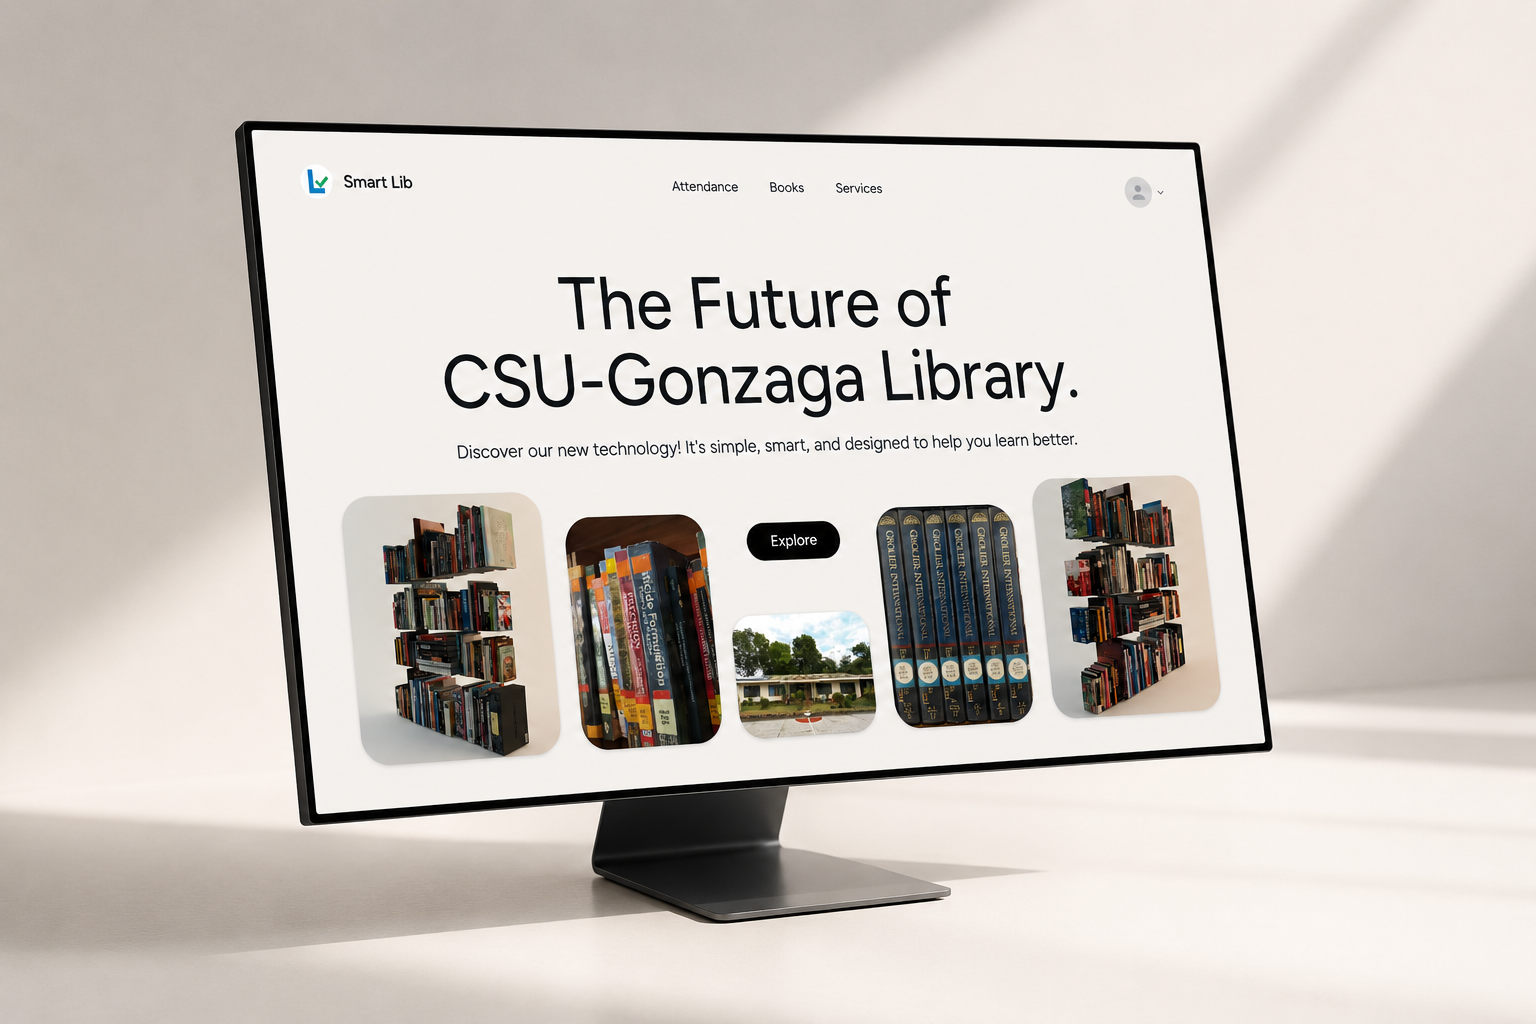
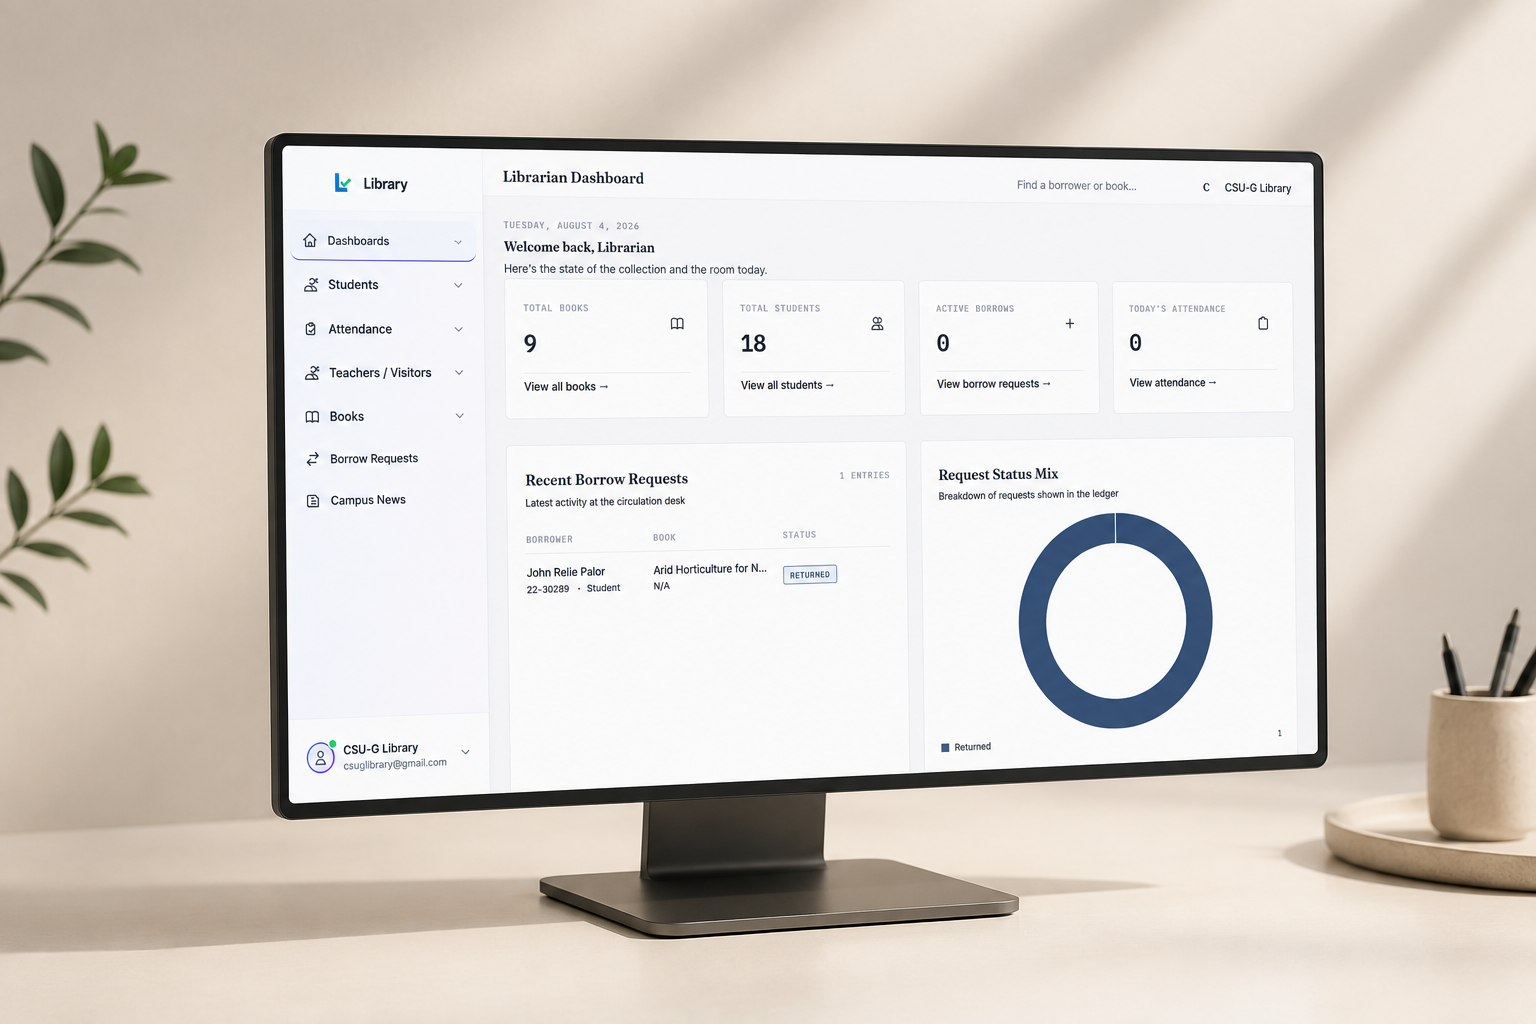
Added projects

diff --git a/config/projects.ts b/config/projects.ts
@@ -52,7 +52,7 @@ export function getProjectPreviews(project: ProjectInterface): ProjectPreviewSet
       descriptionDetails: project.descriptionDetails,
       pagesInfoArr: project.pagesInfoArr,
     },
-    admin: project.adminPreview,
+    ...(project.adminPreview ? { admin: project.adminPreview } : {}),
   };
 }
 
@@ -78,8 +78,8 @@ export const Projects: ProjectInterface[] = [
     shortDescription:
       "An AI-powered quiz platform that generates personalized quizzes on any topic in real time, using the Groq API for fast inference with OpenRouter as a fallback provider. Built with a TypeScript/Angular frontend and an Express.js backend handling AI-driven question generation, scoring, and adaptive feedback.",
     websiteLink: "https://jaya-ai.vercel.app/",
-    githubLink: undefined,
-    liveDemoNote: "Jaya AI generates custom quizzes on any topic using Groq (with OpenRouter as fallback) and turns learning into an interactive game.",    techStack: ["Typescript", "Angular", "express.js", "AI"],
+    liveDemoNote: "Jaya AI generates custom quizzes on any topic using Groq (with OpenRouter as fallback) and turns learning into an interactive game.",
+    techStack: ["Typescript", "Angular", "express.js", "AI"],
     startDate: "2023-03-01", // adjust
     endDate: "2023-06-01",
     companyLogoImg: ["/projects/jaya/jaya3.png", "/projects/jaya/jaya2.png"],
@@ -211,7 +211,6 @@ export const Projects: ProjectInterface[] = [
     category: ["Web Dev", "Full Stack", "UI/UX"],
     shortDescription:
       "A Laravel-based library system with QR-based book borrowing/returning, real-time book availability, and study space tracking.",
-    websiteLink: undefined,
     githubLink: "https://github.com/reliepalor/library.git",
     liveDemoNote: "Live demo is not available yet.",
     techStack: ["Laravel", "PHP", "Firebase", "MySQL", "Tailwind CSS"],
@@ -249,53 +248,108 @@ export const Projects: ProjectInterface[] = [
     },
   },
 
-  //Pet Ecommerce
+  // //Pet Ecommerce
+  // {
+  //   id: "paw-haven",
+  //   companyName: "Paw Haven | Pet Ecommerce",
+  //   type: "Academics",
+  //   category: ["Web Dev", "Full Stack", "UI/UX"],
+  //   shortDescription:
+  //     "A Laravel and Tailwind-based pet eCommerce platform where users can browse and order pets, accessories, and food, complete with email order confirmations.",
+  //   githubLink: "https://github.com/reliepalor/pets.git",
+  //   liveDemoNote: "Live demo is not available yet.",
+  //   techStack: ["Laravel", "PHP", "Firebase", "MySQL", "Tailwind CSS"],
+  //   startDate: "2023-01-01", 
+  //   endDate: "2023-03-01",
+  //   companyLogoImg: "/projects/paw-haven/vuew.png",
+  //   pagesInfoArr: [
+  //     {
+  //       title: "Landing Page",
+  //       description: "A clean landing page showcasing featured pets, products, and offers.",
+  //       imgArr: ["/projects/paw-haven/vuew.png"],
+  //     },
+  //     {
+  //       title: "Product Browsing",
+  //       description: "Browse pets, accessories, and food with category filters.",
+  //       imgArr: ["/projects/paw-haven/vuew.png"],
+  //     },
+  //     {
+  //       title: "Order System",
+  //       description: "Integrated checkout with order confirmation via email.",
+  //       imgArr: ["/projects/paw-haven/vuew.png"],
+  //     },
+  //   ],
+  //   descriptionDetails: {
+  //     paragraphs: [
+  //       "Paw Haven is a full-featured eCommerce web application tailored for pet lovers. Users can easily explore and purchase pets, accessories, and food items, all within a single platform.",
+  //       "The system leverages Laravel and MySQL on the backend, with Tailwind CSS providing a responsive and modern design. Firebase is integrated for authentication and real-time functionality.",
+  //       "A key highlight is the email notification system that confirms orders, ensuring users receive instant updates on their purchases.",
+  //     ],
+  //     bullets: [
+  //       "Built a complete eCommerce platform using Laravel and Tailwind CSS.",
+  //       "Implemented product browsing for pets, accessories, and food.",
+  //       "Integrated Firebase for authentication and notifications.",
+  //       "Added order confirmation system with automated email alerts.",
+  //     ],
+  //   },
+  // },
+
+  //Rentify
   {
-    id: "paw-haven",
-    companyName: "Paw Haven | Pet Ecommerce",
+    id: "rentify",
+    companyName: "Rentify | Rental Marketplace",
     type: "Academics",
     category: ["Web Dev", "Full Stack", "UI/UX"],
     shortDescription:
-      "A Laravel and Tailwind-based pet eCommerce platform where users can browse and order pets, accessories, and food, complete with email order confirmations.",
+      "A modern rental marketplace web app where landlords can list verified properties and tenants can browse, search, and apply for rentals.",
     websiteLink: undefined,
-    githubLink: "https://github.com/reliepalor/pets.git",
+    githubLink: "https://github.com/reliepalor/rentify",
     liveDemoNote: "Live demo is not available yet.",
-    techStack: ["Laravel", "PHP", "Firebase", "MySQL", "Tailwind CSS"],
-    startDate: "2023-01-01", 
-    endDate: "2023-03-01",
-    companyLogoImg: "/projects/paw-haven/vuew.png",
+    techStack: ["Angular", "Typescript", "Supabase", "Tailwind CSS", "Sass"],
+    startDate: "2024-01-01",
+    endDate: "2024-06-01",
+    companyLogoImg: ["/projects/rentify/rentify1.png", "/projects/rentify/rentify2.png"],
     pagesInfoArr: [
       {
         title: "Landing Page",
-        description: "A clean landing page showcasing featured pets, products, and offers.",
-        imgArr: ["/projects/paw-haven/vuew.png"],
+        description:
+          "A modern landing page that introduces the platform and highlights the experience for both landlords and tenants.",
+        imgArr: ["/projects/rentify/landingpage.png"],
       },
       {
-        title: "Product Browsing",
-        description: "Browse pets, accessories, and food with category filters.",
-        imgArr: ["/projects/paw-haven/vuew.png"],
+        title: "Property Browsing",
+        description:
+          "Tenants can browse approved properties and units, with search and filter options for location and price.",
+        imgArr: ["/projects/rentify/property-browsing.png"],
       },
       {
-        title: "Order System",
-        description: "Integrated checkout with order confirmation via email.",
-        imgArr: ["/projects/paw-haven/vuew.png"],
+        title: "Landlord Dashboard",
+        description:
+          "Landlords can manage properties, create units, upload images, and review tenant applications from one dashboard.",
+        imgArr: ["/projects/rentify/landlord-dashboard.png"],
+      },
+      {
+        title: "Verification & Application Flow",
+        description:
+          "Landlords can submit verification documents, while tenants can apply for units through a structured workflow.",
+        imgArr: ["/projects/rentify/verification-flow.png"],
       },
     ],
     descriptionDetails: {
       paragraphs: [
-        "Paw Haven is a full-featured eCommerce web application tailored for pet lovers. Users can easily explore and purchase pets, accessories, and food items, all within a single platform.",
-        "The system leverages Laravel and MySQL on the backend, with Tailwind CSS providing a responsive and modern design. Firebase is integrated for authentication and real-time functionality.",
-        "A key highlight is the email notification system that confirms orders, ensuring users receive instant updates on their purchases.",
+        "Rentify is a full-stack rental marketplace web application designed to connect landlords and tenants through a trusted and streamlined platform.",
+        "The system allows landlords to register, upload verification documents, manage property listings and units, and review tenant applications. Tenants can browse approved listings, search by location and budget, and submit applications for units they are interested in.",
+        "Built with Angular and Supabase, the project highlights role-based authentication, file uploads, approval workflows, and a responsive UI tailored for real-world rental operations.",
       ],
       bullets: [
-        "Built a complete eCommerce platform using Laravel and Tailwind CSS.",
-        "Implemented product browsing for pets, accessories, and food.",
-        "Integrated Firebase for authentication and notifications.",
-        "Added order confirmation system with automated email alerts.",
+        "Developed a rental marketplace with separate landlord and tenant workflows.",
+        "Implemented secure authentication and role-based access using Angular and Supabase.",
+        "Added landlord verification with document uploads and admin review status.",
+        "Built property and unit management features including image uploads and approval workflow.",
+        "Enabled tenant search and filtering for property listings and unit applications.",
       ],
     },
-  },
-
+  }
 
   
   // {

diff --git a/app/(root)/about/page.tsx b/app/(root)/about/page.tsx
@@ -70,7 +70,7 @@ export default function AboutPage() {
       title={pagesConfig.about?.title ?? "About"}
       description={pagesConfig.about?.description ?? "A little about my path so far."}
     >
-      <div className="mx-auto w-full max-w-3xl space-y-10">
+      <div className="mx-auto w-full max-w-3xl space-y-10 mb-16">
         {/* Header */}
         <div className="animate-in fade-in slide-in-from-bottom-2 duration-500 space-y-4">
           <h1 className="text-3xl font-bold tracking-tight sm:text-4xl md:text-5xl">
@@ -87,7 +87,7 @@ export default function AboutPage() {
           group relative overflow-hidden rounded-2xl border border-border/60 bg-background p-6 sm:p-8
           transition-colors hover:border-foreground/30"
         >
-          <div className="flex items-start justify-between gap-4">
+          <div className="space-y-3">
             <div className="flex items-center gap-3">
               <div className="flex h-10 w-10 shrink-0 items-center justify-center rounded-lg border border-border/60 bg-muted/30 transition-colors group-hover:bg-muted/60">
                 <Briefcase className="h-5 w-5" />
@@ -130,11 +130,10 @@ export default function AboutPage() {
             <h2 className="text-2xl font-bold tracking-tight">Freelance</h2>
           </div>
           <p className="text-sm text-muted-foreground">
-            Designed, built, and delivered complete systems for clients
-            from initial requirements to a working product in production.
+            Built client systems from requirements to delivery.
           </p>
 
-          <div className="grid gap-3 sm:grid-cols-2">
+          <div className="space-y-3">
             {aboutData.freelanceProjects.map((project) => (
               <div
                 key={project.name}
@@ -150,7 +149,7 @@ export default function AboutPage() {
               </div>
             ))}
             <div className="rounded-xl border border-dashed border-border/60 p-5 text-sm text-muted-foreground">
-              Plus a few other client projects delivered along the way.
+              And a few more client projects.
             </div>
           </div>
         </section>
@@ -165,9 +164,8 @@ export default function AboutPage() {
           </div>
           <div className="rounded-xl border border-border/60 bg-muted/20 p-5 transition-colors hover:bg-muted/40">
             <p className="text-sm leading-relaxed text-muted-foreground">
-              Alongside freelance work, I&apos;ve developed capstone and
-              research systems for university clients helping students turn
-              their thesis concepts into working, presentable software.
+              I&apos;ve also built capstone and research systems that help turn
+              thesis ideas into working software.
             </p>
           </div>
         </section>
@@ -192,7 +190,7 @@ export default function AboutPage() {
             <Trophy className="h-4 w-4 text-muted-foreground" />
             <h2 className="text-2xl font-bold tracking-tight">Achievements</h2>
           </div>
-          <div className="grid gap-3 sm:grid-cols-2">
+          <div className="space-y-3">
             {aboutData.achievements.map((achievement, index) => (
               <div
                 key={index}

diff --git a/app/(root)/projects/page.tsx b/app/(root)/projects/page.tsx
@@ -5,7 +5,6 @@ import Link from "next/link";
 import { AnimatedSection } from "@/components/common/animated-section";
 import PageContainer from "@/components/common/page-container";
 import LiveDemoButton from "@/components/projects/live-demo-button";
-import { ResponsiveTabs } from "@/components/ui/responsive-tabs";
 import { pagesConfig } from "../../../config/pages";
 import { Projects } from "../../../config/projects";
 
@@ -14,13 +13,8 @@ export const metadata: Metadata = {
   description: pagesConfig.projects.metadata.description,
 };
 
-const renderContent = (tabVal: string) => {
-  let projectArr = Projects;
-  if (tabVal === "personal") {
-    projectArr = projectArr.filter((val) => val.type === "Personal");
-  } else if (tabVal === "professional") {
-    projectArr = projectArr.filter((val) => val.type === "Academics");
-  }
+const renderContent = () => {
+  const projectArr = Projects;
 
   return (
     <div className="mx-auto my-5 w-full max-w-[1500px] px-2 sm:px-4 lg:px-6">
@@ -77,30 +71,12 @@ const renderContent = (tabVal: string) => {
 };
 
 export default function ProjectsPage() {
-  const tabItems = [
-    {
-      value: "all",
-      label: "All",
-      content: renderContent("all"),
-    },
-    {
-      value: "personal",
-      label: "Personal",
-      content: renderContent("personal"),
-    },
-    {
-      value: "professional",
-      label: "Academic",
-      content: renderContent("professional"),
-    },
-  ];
-
   return (
     <PageContainer
       title={pagesConfig.projects.title}
       description={pagesConfig.projects.description}
     >
-      <ResponsiveTabs items={tabItems} defaultValue="all" />
+      {renderContent()}
     </PageContainer>
   );
 }
